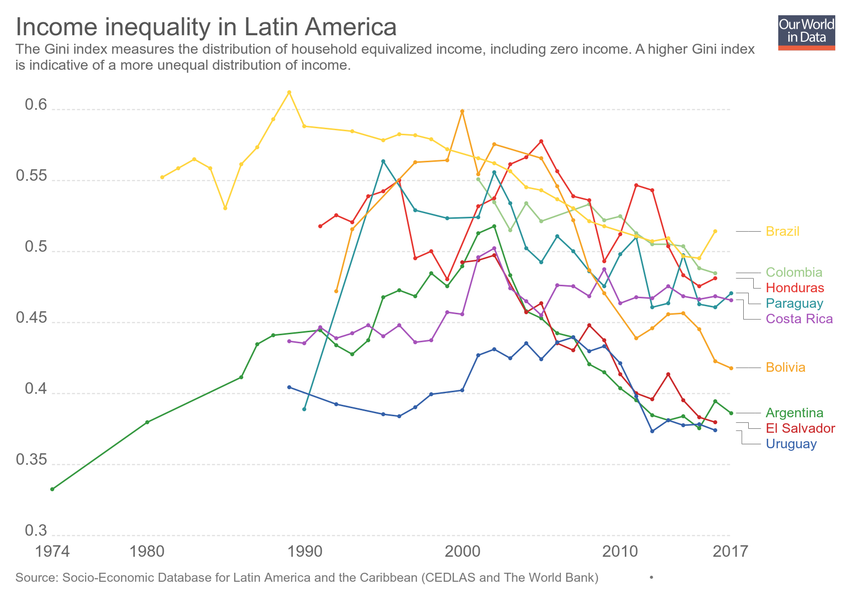
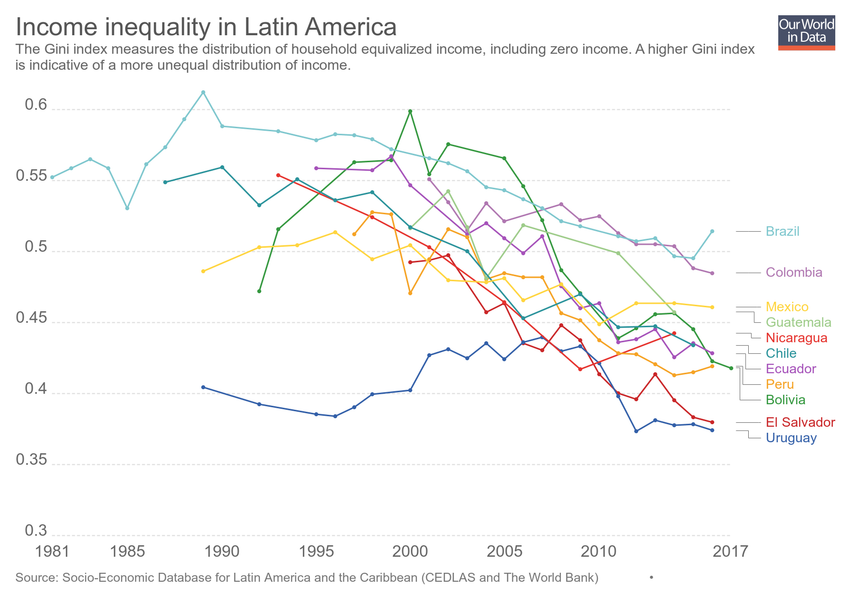
Updating chart income-inequality-in-latin-america

diff --git a/grapher/income-inequality-in-latin-america.html b/grapher/income-inequality-in-latin-america.html
@@ -1,4 +1,4 @@
-<!doctype html><html><head><meta name="viewport" content="width=device-width, initial-scale=1" /><title>Income inequality in Latin America - Our World in Data</title><meta name="description" content="The Gini index measures the distribution of household equivalized income, including zero income. A higher Gini index is indicative of a more unequal distribution of income." /><link rel="canonical" href="https://ourworldindata.org/grapher/income-inequality-in-latin-america" /><meta property="fb:app_id" content="1149943818390250" /><meta property="og:url" content="https://ourworldindata.org/grapher/income-inequality-in-latin-america" /><meta property="og:title" content="Income inequality in Latin America" /><meta property="og:description" content="The Gini index measures the distribution of household equivalized income, including zero income. A higher Gini index is indicative of a more unequal distribution of income." /><meta property="og:image" content="https://ourworldindata.org/grapher/exports/income-inequality-in-latin-america.png?v=2" /><meta property="og:image:width" content="850" /><meta property="og:image:height" content="600" /><meta property="og:site_name" content="Our World in Data" /><meta name="twitter:card" content="summary_large_image" /><meta name="twitter:site" content="@OurWorldInData" /><meta name="twitter:creator" content="@OurWorldInData" /><meta name="twitter:title" content="Income inequality in Latin America" /><meta name="twitter:description" content="The Gini index measures the distribution of household equivalized income, including zero income. A higher Gini index is indicative of a more unequal distribution of income." /><meta name="twitter:image" content="https://ourworldindata.org/grapher/exports/income-inequality-in-latin-america.png?v=2" /><style>
+<!doctype html><html><head><meta name="viewport" content="width=device-width, initial-scale=1" /><title>Income inequality in Latin America - Our World in Data</title><meta name="description" content="The Gini index measures the distribution of household equivalized income, including zero income. A higher Gini index is indicative of a more unequal distribution of income." /><link rel="canonical" href="https://ourworldindata.org/grapher/income-inequality-in-latin-america" /><meta property="fb:app_id" content="1149943818390250" /><meta property="og:url" content="https://ourworldindata.org/grapher/income-inequality-in-latin-america" /><meta property="og:title" content="Income inequality in Latin America" /><meta property="og:description" content="The Gini index measures the distribution of household equivalized income, including zero income. A higher Gini index is indicative of a more unequal distribution of income." /><meta property="og:image" content="https://ourworldindata.org/grapher/exports/income-inequality-in-latin-america.png?v=3" /><meta property="og:image:width" content="850" /><meta property="og:image:height" content="600" /><meta property="og:site_name" content="Our World in Data" /><meta name="twitter:card" content="summary_large_image" /><meta name="twitter:site" content="@OurWorldInData" /><meta name="twitter:creator" content="@OurWorldInData" /><meta name="twitter:title" content="Income inequality in Latin America" /><meta name="twitter:description" content="The Gini index measures the distribution of household equivalized income, including zero income. A higher Gini index is indicative of a more unequal distribution of income." /><meta name="twitter:image" content="https://ourworldindata.org/grapher/exports/income-inequality-in-latin-america.png?v=3" /><style>
         html, body {
             height: 100%;
             margin: 0;
@@ -20,8 +20,8 @@
         }
     </style><noscript><style>
                     figure { display: none !important; }
-                </style></noscript><link rel="stylesheet" href="https://ourworldindata.org/grapher/assets/commons.bundle.e61261d2881056c44b1d.css" /><link rel="preload" href="/grapher/data/variables/97732.json?v=2" as="fetch" crossorigin /></head><body class="singleChart"><figure data-grapher-src="/grapher/income-inequality-in-latin-america"></figure><noscript id="fallback"><img src="/grapher/exports/income-inequality-in-latin-america.svg" /><p>Interactive visualization requires JavaScript</p></noscript><script src="https://cdn.polyfill.io/v2/polyfill.min.js?features=es6,fetch"></script><script src="https://ourworldindata.org/grapher/assets/commons.bundle.e61261d2881056c44b1d.js"></script><script src="https://ourworldindata.org/grapher/assets/charts.bundle.e61261d2881056c44b1d.js"></script><script>
-        var jsonConfig = {"id":2916,"map":{"projection":"World","colorSchemeLabels":[],"colorSchemeValues":[],"customNumericColors":[],"customCategoryColors":{},"customCategoryLabels":{},"customHiddenCategories":{}},"tab":"chart","slug":"income-inequality-in-latin-america","type":"LineChart","title":"Income inequality in Latin America","xAxis":{"scaleType":"linear"},"yAxis":{"min":0.3,"scaleType":"linear"},"version":2,"subtitle":"The Gini index measures the distribution of household equivalized income, including zero income. A higher Gini index is indicative of a more unequal distribution of income.","hasMapTab":false,"stackMode":"absolute","dimensions":[{"display":{},"property":"y","variableId":97732}],"isAutoSlug":true,"hasChartTab":true,"isPublished":true,"selectedData":[{"index":0,"entityId":21},{"index":0,"entityId":170},{"index":0,"entityId":259},{"index":0,"entityId":139},{"index":0,"entityId":98},{"index":0,"entityId":63},{"index":0,"entityId":166},{"index":0,"entityId":34},{"index":0,"entityId":37}],"addCountryMode":"add-country"};
+                </style></noscript><link rel="stylesheet" href="https://ourworldindata.org/grapher/assets/commons.bundle.e61261d2881056c44b1d.css" /><link rel="preload" href="/grapher/data/variables/97732.json?v=3" as="fetch" crossorigin /></head><body class="singleChart"><figure data-grapher-src="/grapher/income-inequality-in-latin-america"></figure><noscript id="fallback"><img src="/grapher/exports/income-inequality-in-latin-america.svg" /><p>Interactive visualization requires JavaScript</p></noscript><script src="https://cdn.polyfill.io/v2/polyfill.min.js?features=es6,fetch"></script><script src="https://ourworldindata.org/grapher/assets/commons.bundle.e61261d2881056c44b1d.js"></script><script src="https://ourworldindata.org/grapher/assets/charts.bundle.e61261d2881056c44b1d.js"></script><script>
+        var jsonConfig = {"id":2916,"map":{"projection":"SouthAmerica","targetYear":2016,"variableId":97732,"isManualBuckets":true,"colorSchemeLabels":[],"colorSchemeValues":[0.35,0.4,0.45,0.5,0.55],"colorSchemeMinValue":0.3,"customNumericColors":[null],"customCategoryColors":{},"customCategoryLabels":{},"customHiddenCategories":{}},"tab":"chart","slug":"income-inequality-in-latin-america","type":"LineChart","title":"Income inequality in Latin America","xAxis":{"scaleType":"linear"},"yAxis":{"min":0.3,"scaleType":"linear"},"version":3,"subtitle":"The Gini index measures the distribution of household equivalized income, including zero income. A higher Gini index is indicative of a more unequal distribution of income.","hasMapTab":true,"stackMode":"absolute","dimensions":[{"display":{},"property":"y","variableId":97732}],"hasChartTab":true,"isPublished":true,"selectedData":[{"index":0,"entityId":170},{"index":0,"entityId":259},{"index":0,"entityId":63},{"index":0,"entityId":34},{"index":0,"entityId":37},{"index":0,"entityId":105},{"index":0,"entityId":201},{"index":0,"entityId":97},{"index":0,"entityId":148},{"index":0,"entityId":172},{"index":0,"entityId":113}],"addCountryMode":"add-country"};
         var figure = document.getElementsByTagName("figure")[0];
         try {
             window.App = {};
